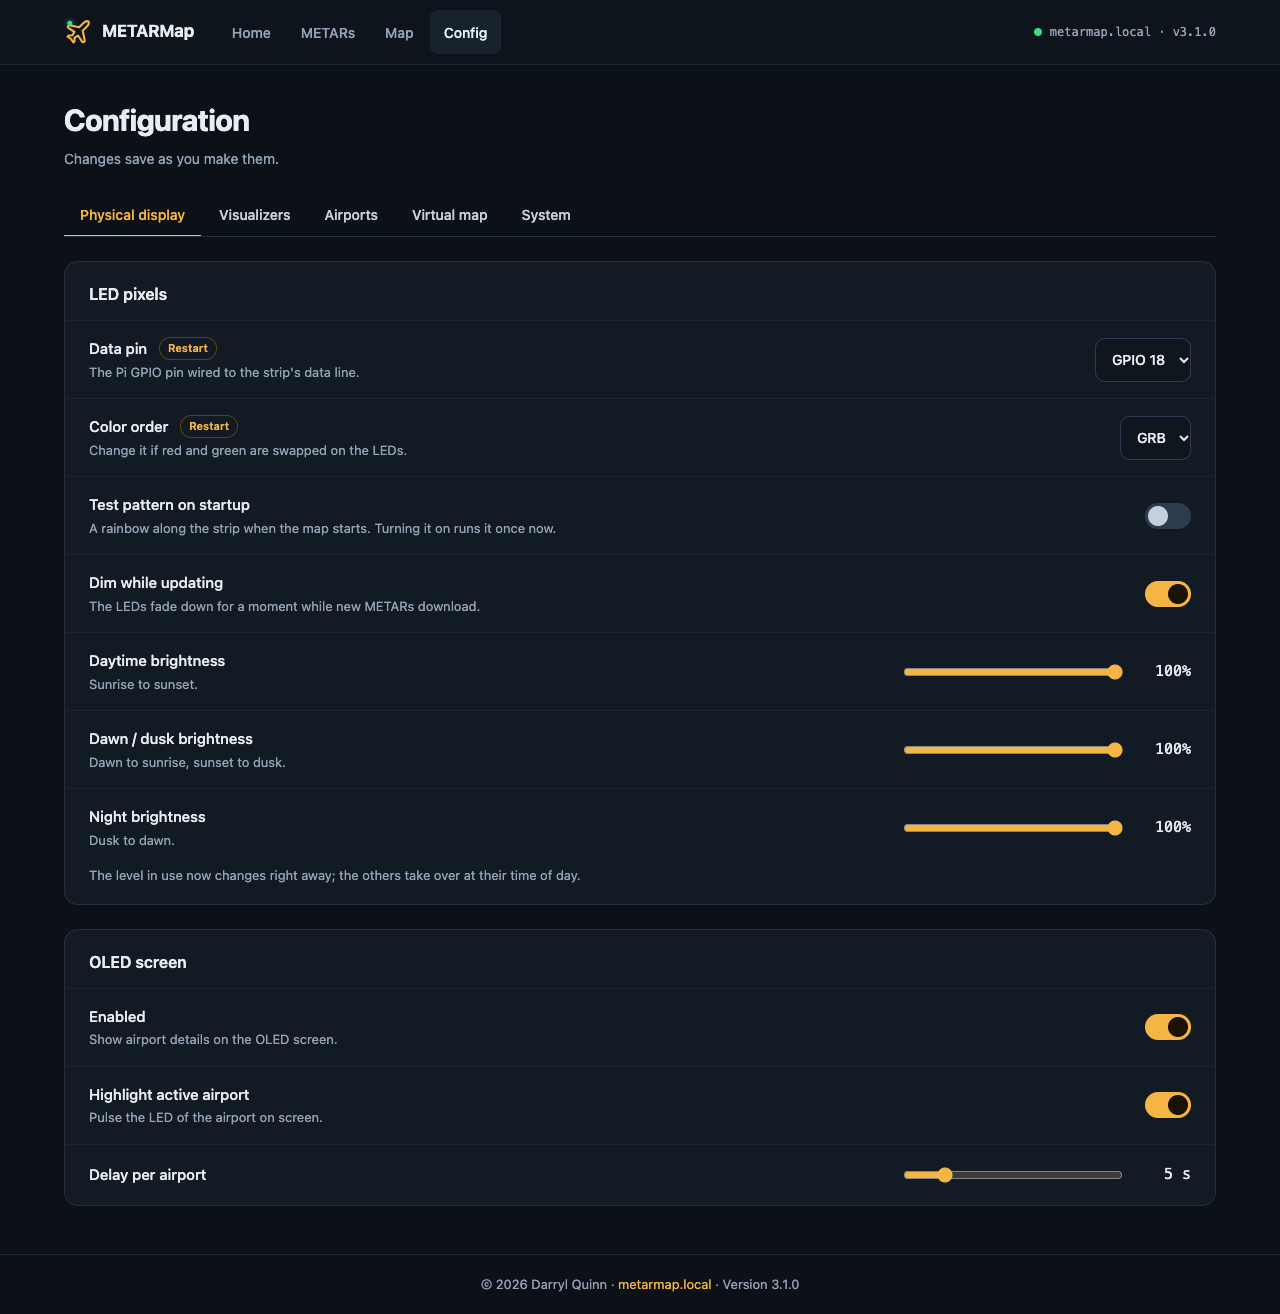
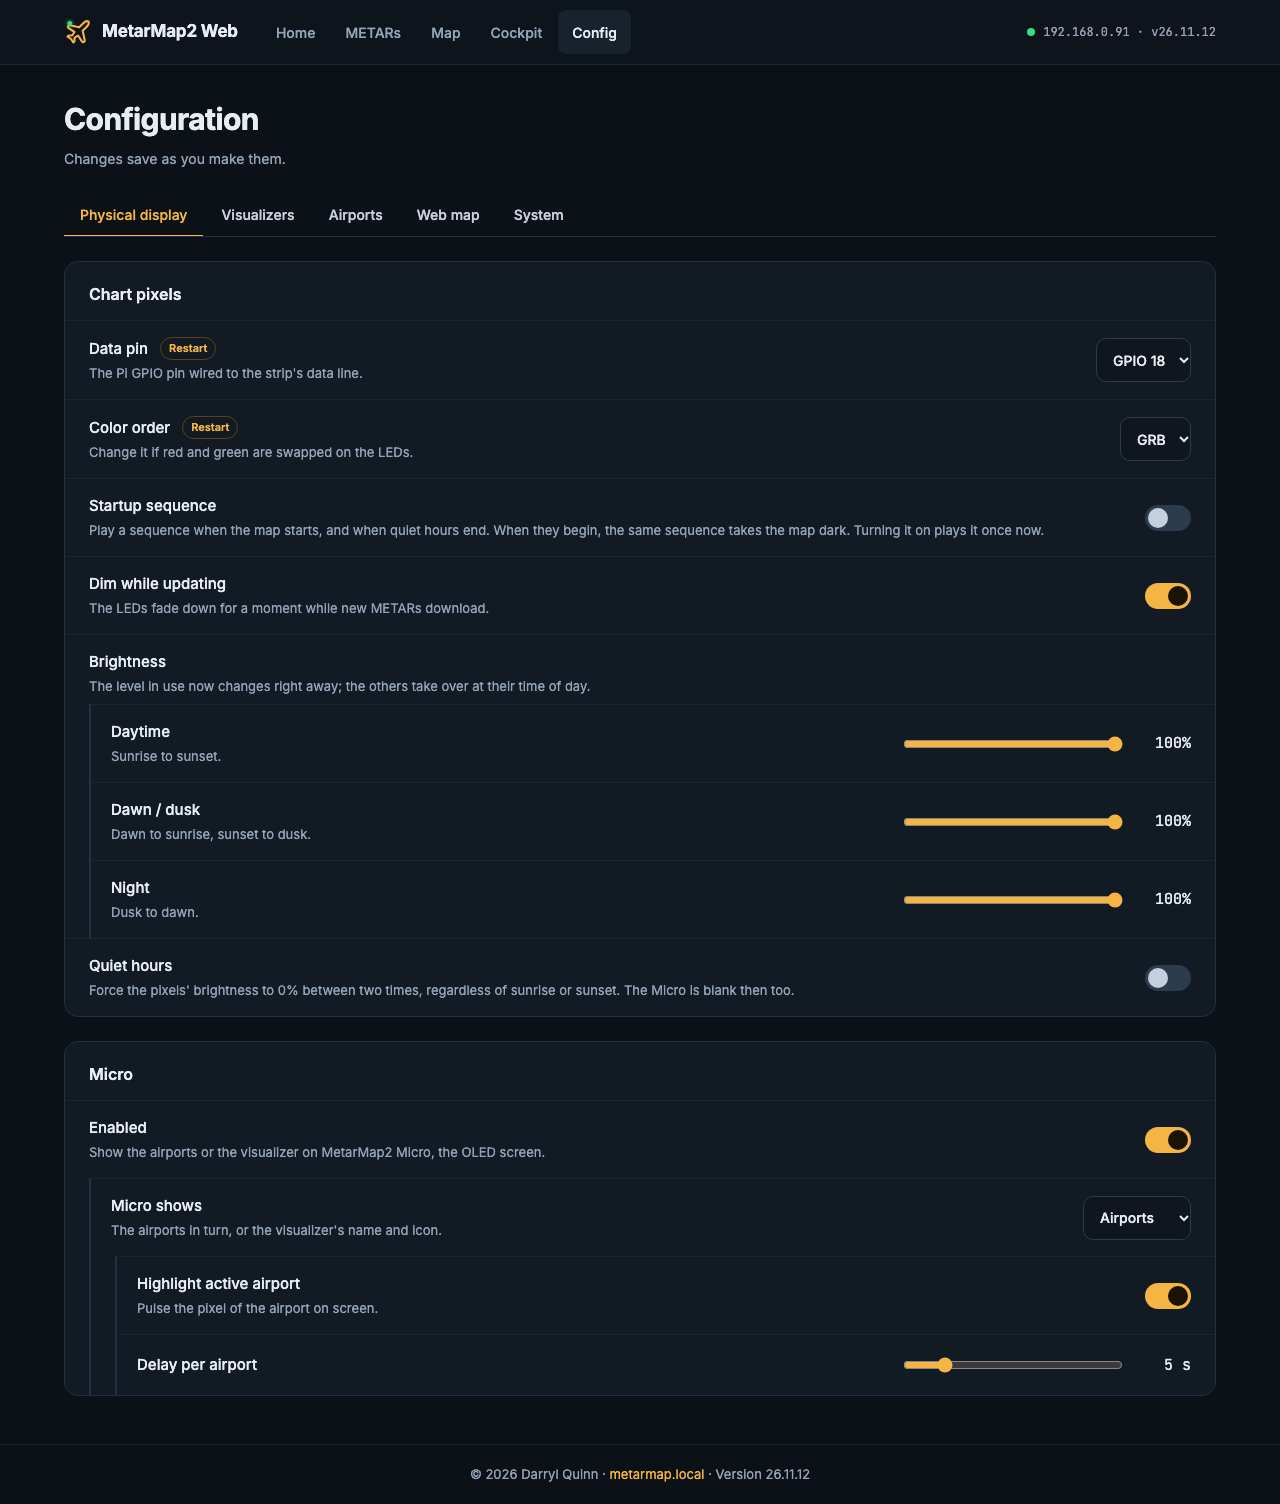
Retake the stale web screenshots (B81, part 1)
Six screenshots retaken from current master with a 50-airport map. README
captions updated to match what each image shows.

diff --git a/README.md b/README.md
@@ -119,13 +119,13 @@ that are below VFR. The METARs page lists every airport's report.
 
 Settings save as you change them.
 
-![Config, Physical display: the Chart pixels (data pin, color order, brightness) and the Micro](docs/images/config_physical_display.png)
+![Config, Physical display: the Chart pixels (data pin, color order, startup sequence, brightness, quiet hours) and the Micro](docs/images/config_physical_display.png)
 
-![Config, Visualizers: the default visualizer, auto-rotate and which visualizers take part](docs/images/config_visualizers.png)
+![Config, Visualizers: the global settings (default visualizer, missing data blink, legend items in use, lightning and its color, auto-rotate), then Flight Category, Forecast and TFR](docs/images/config_visualizers.png)
 
 ![Config, Airports: the airport at each pixel, in the order the pixels are wired, with the Hidden pixel switch (pixels 3 and 7 are hidden)](docs/images/config_airports.png)
 
-![Config, Web map: the Map page's background, chart and starting view, and the live traffic settings](docs/images/config_virtual_map.png)
+![Config, Web map: the Map page's background, chart and starting view, and the live traffic settings](docs/images/config_web_map.png)
 
 #### Plan a new chart
 
@@ -163,7 +163,7 @@ The Cockpit's **Map** tab has the visualizer name between arrows in the map itse
 
 ![The Cockpit's Visualizer tab](docs/images/remote_visualizer.png)
 
-![The Cockpit's Locator tab: an airport's button pulses its pixel on the Chart](docs/images/remote_locator.png)
+![The Cockpit's Info tab: a button for each airport with its flight category's dot, and the search box](docs/images/remote_info.png)
 
 For a dedicated screen instead of a tablet, MetarMap2 Copilot
 ([metarmap2_remote](https://github.com/dman776/metarmap2_remote)) is a companion project: firmware for a 2.8" ESP32-S3
